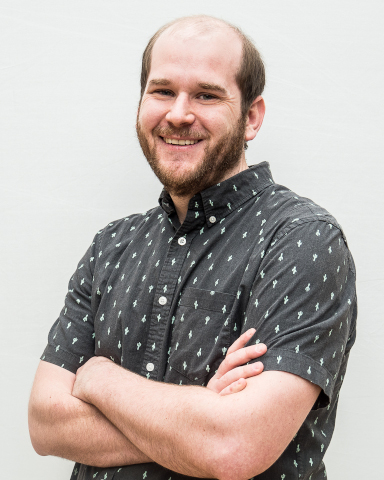
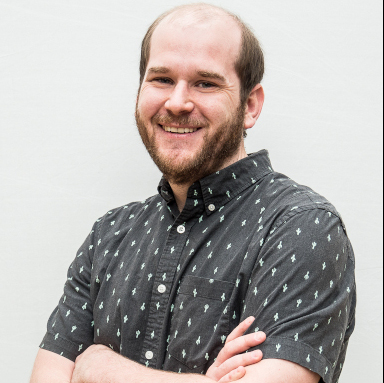
customized template

diff --git a/index.html b/index.html
@@ -181,9 +181,9 @@
 										<h3>Austin, TX</h3>
 									</div>
 								</section>
-										<!-- <div id="headshot">
+										<div id="headshot">
 											<img src="images/headshot.jpg" alt="">
-										</div> -->
+										</div>
 							</section>
 						</div>
 					</section>

diff --git a/assets/css/main.css b/assets/css/main.css
@@ -3932,9 +3932,10 @@ input, select, textarea {
 
 
 #headshot img {
-	border-radius: 10px;
-  display: block;
+	border-radius: 50%;
+  /* display: block;
   margin-left: auto;
-  margin-right: auto;
+	margin-right: auto; */
+	margin-bottom: 40px;
   width: 40%;
 }		
